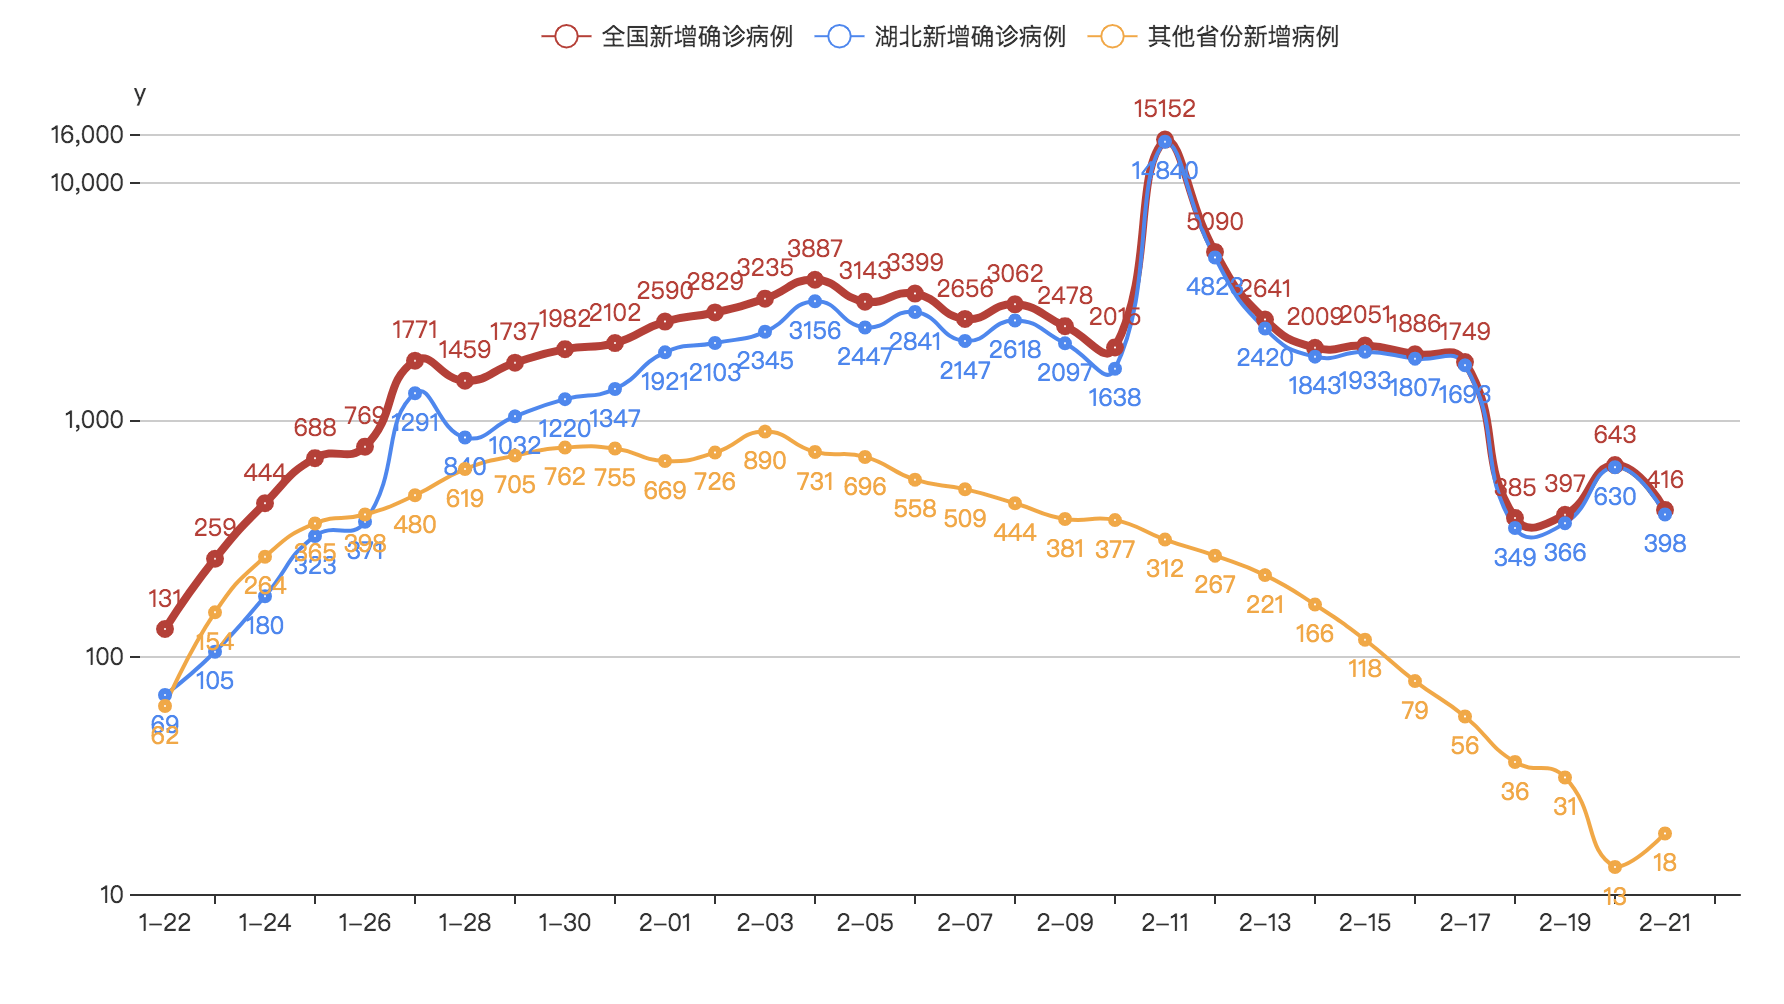
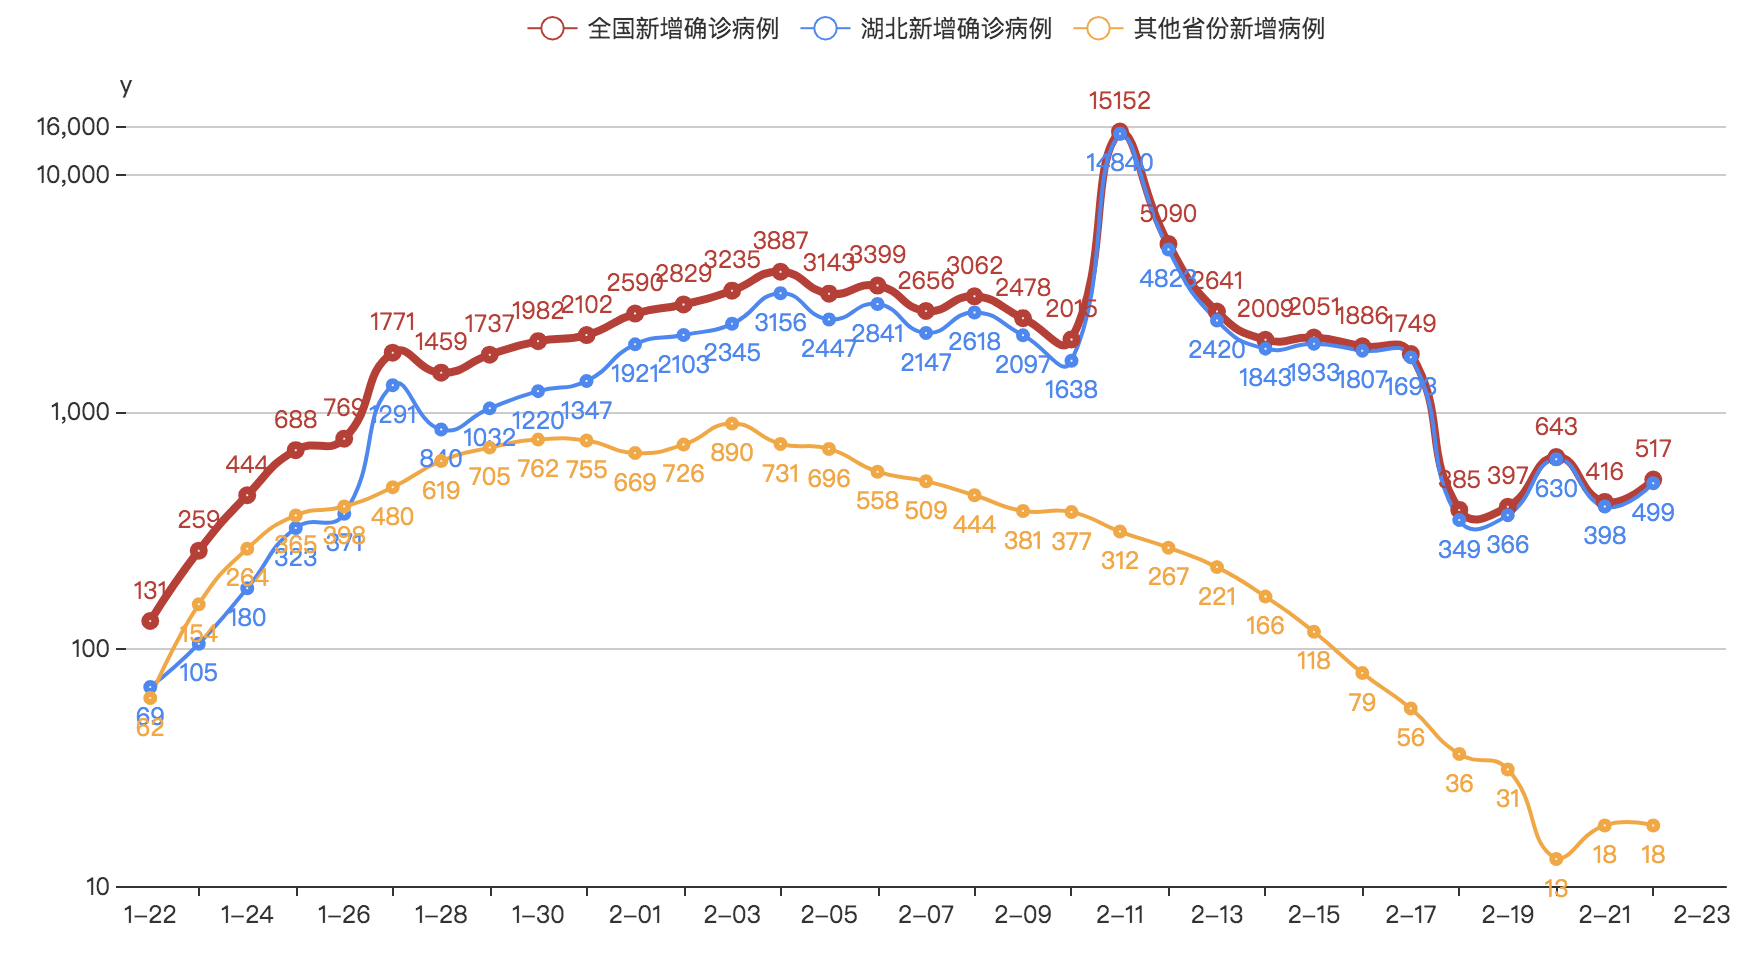
update result

diff --git a/main.py b/main.py
@@ -97,9 +97,9 @@ def draw_tendency(month, day):
     dates = ['1-%d' % i for i in range(22, 31 + 1)]
     dates.extend(['2-%02d' % i for i in range(1, day)])
     v0 = [131, 259, 444, 688, 769, 1771, 1459, 1737, 1982, 2102, 2590, 2829, 3235, 3887, 3143, 3399, 2656, 3062, 2478,
-          2015, 15152, 5090, 2641, 2009, 2051, 1886, 1749, 385, 397, 643, 416]
+          2015, 15152, 5090, 2641, 2009, 2051, 1886, 1749, 385, 397, 643, 416, 517]
     v1 = [69, 105, 180, 323, 371, 1291, 840, 1032, 1220, 1347, 1921, 2103, 2345, 3156, 2447, 2841, 2147, 2618, 2097,
-          1638, 14840, 4823, 2420, 1843, 1933, 1807, 1693, 349, 366, 630, 398]
+          1638, 14840, 4823, 2420, 1843, 1933, 1807, 1693, 349, 366, 630, 398, 499]
     v2 = [v0[i] - v1[i] for i in range(len(v0))]
     print(v2)
     c = (
@@ -261,7 +261,7 @@ def draw_multiple_pie(month, day):
 
 
 if __name__ == '__main__':
-    m, d = 2, 23
+    m, d = 2, 24
     get_html(m, d)
     draw_tendency(m, d)
     draw_multiple_pie(m, d)

diff --git a/README.md b/README.md
@@ -27,6 +27,7 @@
 - 更新：2020.2.22 10:51
 - 更新：2020.2.23 08:51
 - 更新：2020.2.24 11:57 最近数据上报都变慢了，改成每天中午更新好了
+- 更新：2020.2.25 09:20
 
 # 全国/各省份疫情地图
 ![image](https://github.com/shadow12138/WuHanGanBaDei/blob/master/result/r1.png)
